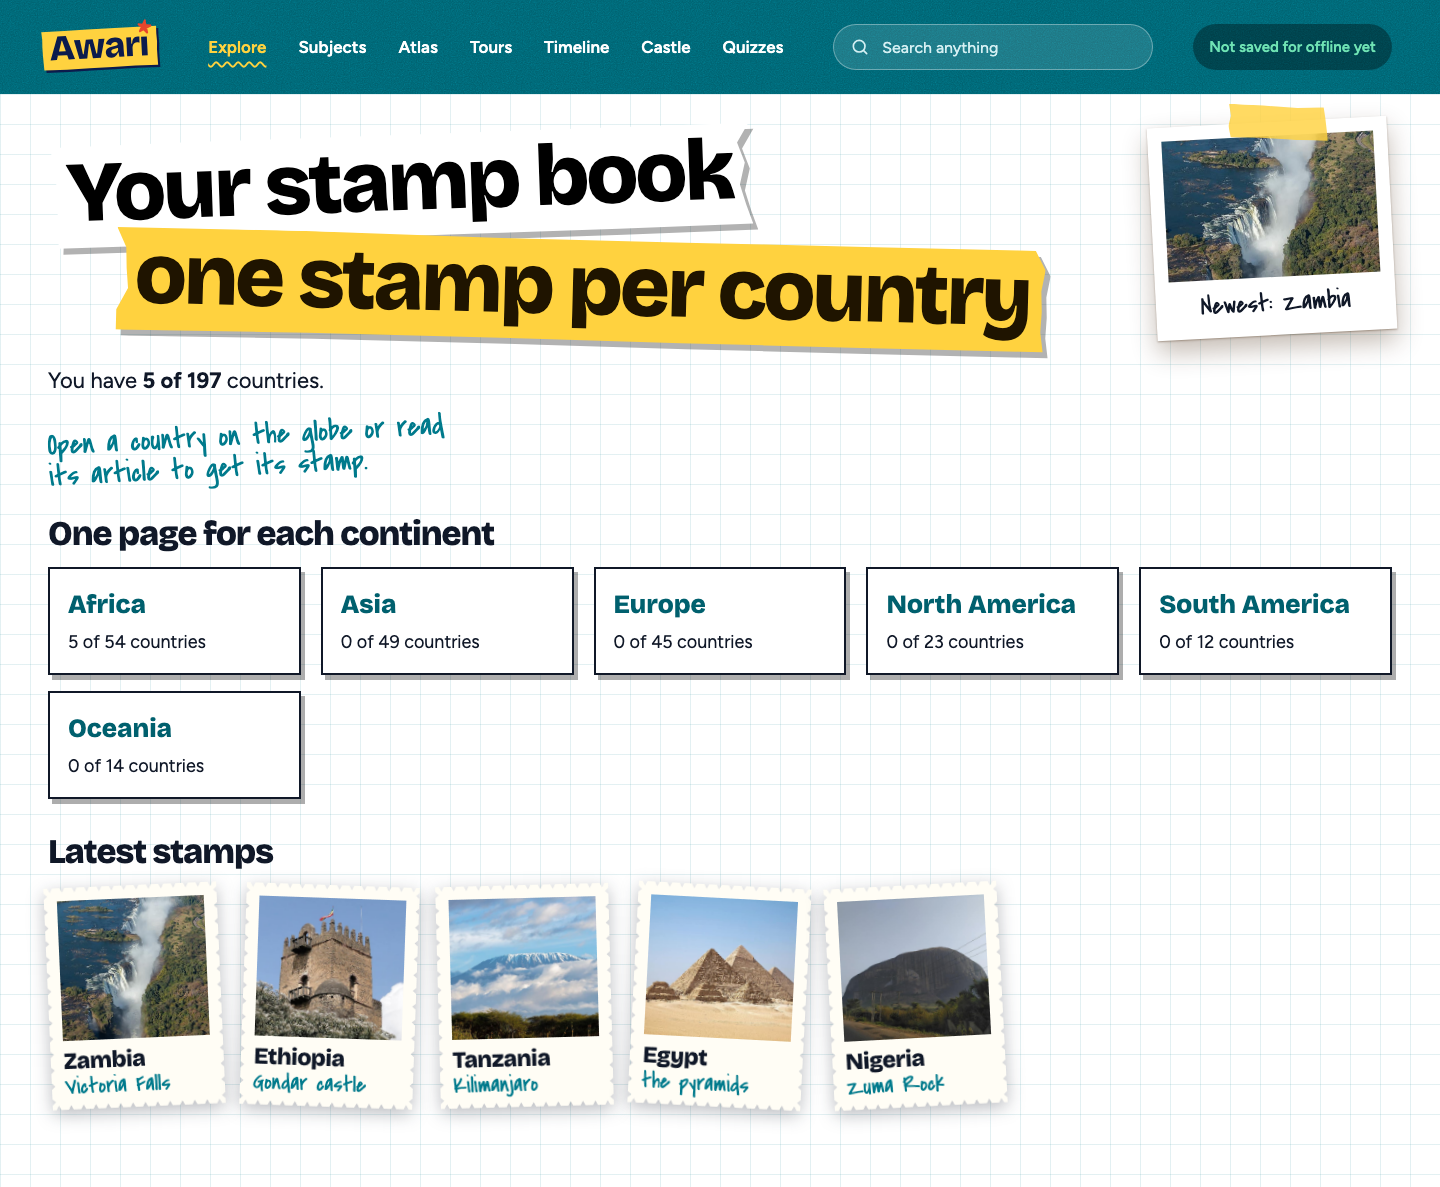
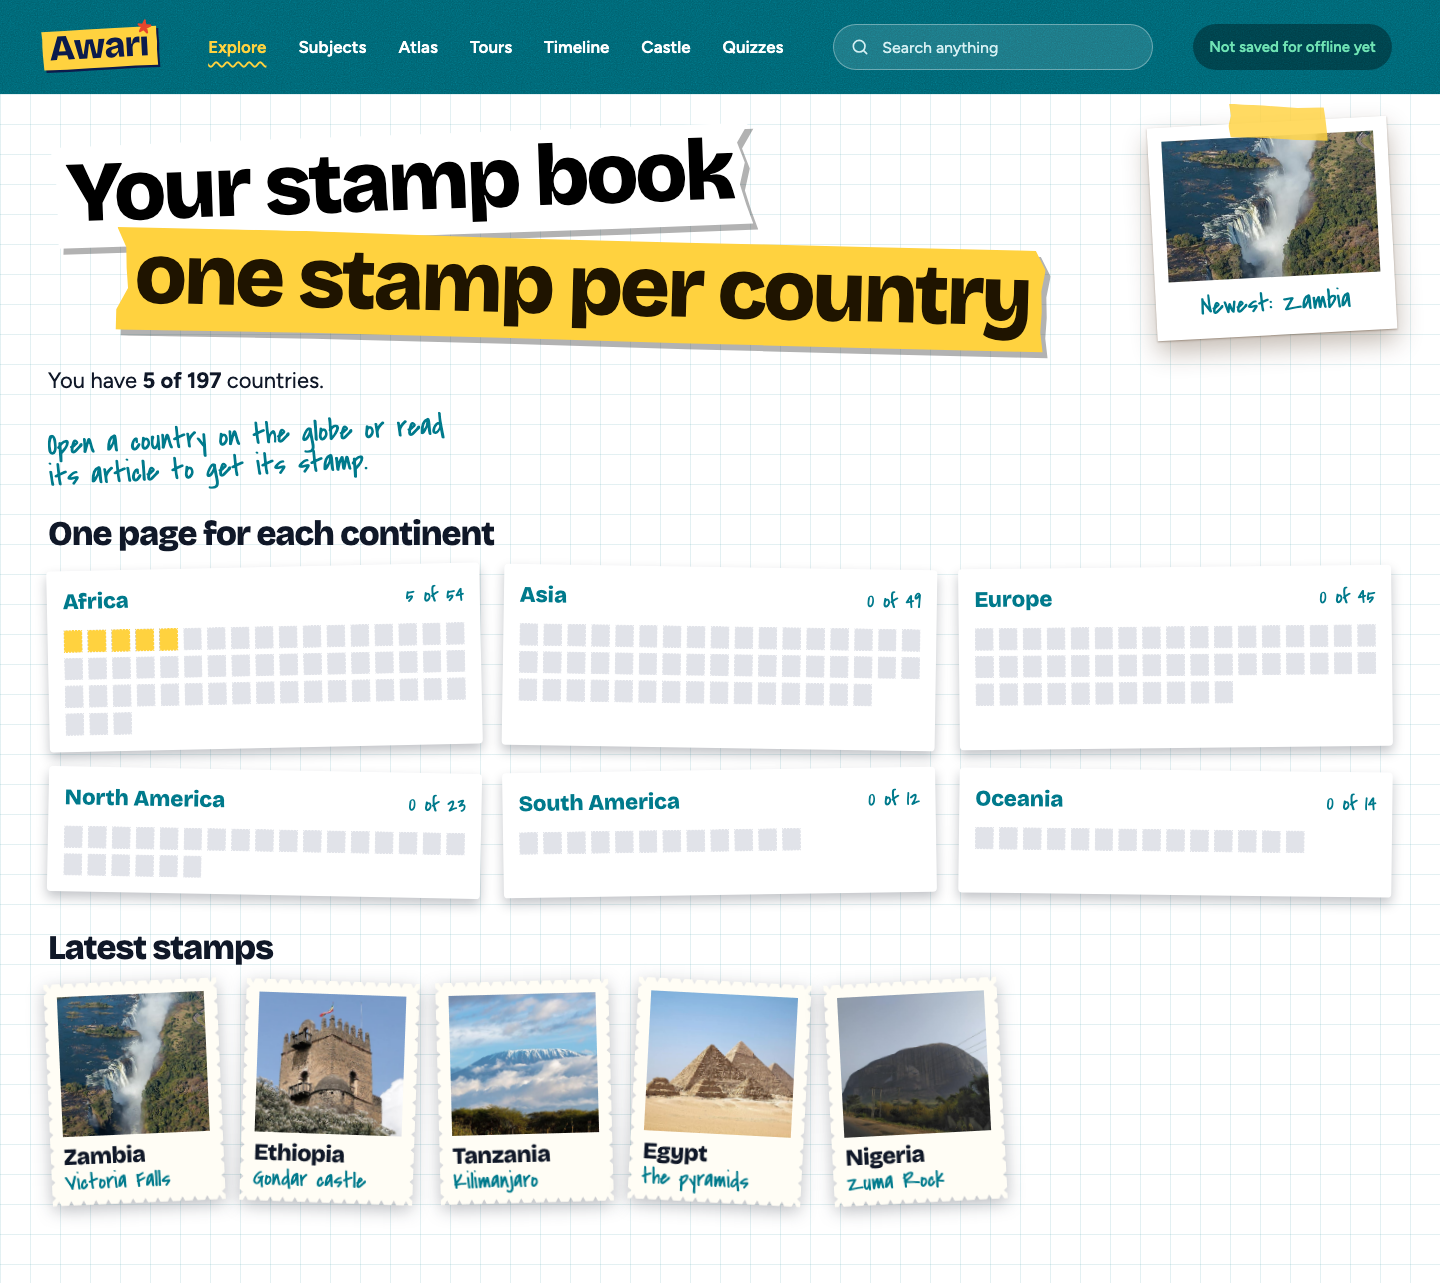
22-review-3 4: shared stamp sheets component in a 3x2 grid

Changed region(s): [[0.0, 0.0, 1.0, 0.9663], [0.3125, 0.7481, 0.6875, 0.9663]]

diff --git a/src/features/stamps/stamps.test.tsx b/src/features/stamps/stamps.test.tsx
@@ -17,14 +17,14 @@ describe('World stamp book screens (16-world-stamp-book 3)', () => {
     expect(await screen.findByText(/Your book is empty so far/)).toBeInTheDocument();
     expect(screen.getByRole('link', { name: 'Spin the globe' })).toHaveAttribute('href', '/atlas');
     expect(screen.getByRole('status')).toHaveTextContent('0 of 197 countries');
-    const cards = screen.getAllByRole('link', { name: /countries$/ });
+    const cards = screen.getAllByRole('link', { name: /Open this page$/ });
     expect(cards.map((c) => c.textContent)).toEqual([
-      'Africa0 of 54 countries',
-      'Asia0 of 49 countries',
-      'Europe0 of 45 countries',
-      'North America0 of 23 countries',
-      'South America0 of 12 countries',
-      'Oceania0 of 14 countries',
+      'Africa0 of 54',
+      'Asia0 of 49',
+      'Europe0 of 45',
+      'North America0 of 23',
+      'South America0 of 12',
+      'Oceania0 of 14',
     ]);
     expect(cards[3]).toHaveAttribute('href', '/stamps/north-america');
   });
@@ -33,9 +33,9 @@ describe('World stamp book screens (16-world-stamp-book 3)', () => {
     await update((p) => ['nigeria', 'ghana', 'france', 'japan', 'brazil', 'fiji'].reduce(withDiscovered, p));
     render(<StampsScreen />);
     expect(await screen.findByText(/6 of 197/)).toBeInTheDocument();
-    expect(screen.getByRole('link', { name: /^Africa2 of 54/ })).toBeInTheDocument();
-    expect(screen.getByRole('link', { name: /^Oceania1 of 14/ })).toBeInTheDocument();
-    expect(screen.getByRole('link', { name: /^South America1 of 12/ })).toBeInTheDocument();
+    expect(screen.getByRole('link', { name: /^Africa: 2 of 54 countries/ })).toBeInTheDocument();
+    expect(screen.getByRole('link', { name: /^Oceania: 1 of 14 countries/ })).toBeInTheDocument();
+    expect(screen.getByRole('link', { name: /^South America: 1 of 12 countries/ })).toBeInTheDocument();
   });
 
   it('shows a continent page with a slot per country, found ones linked, the rest in words. _Req 3_', async () => {
@@ -57,5 +57,16 @@ describe('World stamp book screens (16-world-stamp-book 3)', () => {
     expect(screen.getByRole('alert')).toHaveTextContent('There is no stamp page for that place');
     const world = within(document.body).getByRole('link', { name: 'Oceania' });
     expect(world).toHaveAttribute('href', '/stamps/oceania');
+  });
+});
+
+describe('stamp sheets are one component (22-review-3 Req 5, 6)', () => {
+  it('draws six sheets in the stamp book, each with one blank slot per country', async () => {
+    const { container } = render(<StampsScreen />);
+    await screen.findByText(/Your book is empty so far/);
+    const sheets = container.querySelectorAll('.stamp-sheet');
+    expect(sheets).toHaveLength(6);
+    const slots = [...sheets].reduce((n, s) => n + s.querySelectorAll('.stamp-sheet__stamps span').length, 0);
+    expect(slots).toBe(197);
   });
 });

diff --git a/src/features/atlas/AtlasScreen.tsx b/src/features/atlas/AtlasScreen.tsx
@@ -7,12 +7,12 @@ import { useEffect, useMemo, useState } from 'react';
 import { Link } from '../../app/navigation.tsx';
 import { useTitle } from '../../app/useTitle.ts';
 import { Button, MarginNote, StripHeading } from '../../design/paper.tsx';
-import { perforation } from '../../design/wobble.ts';
 import { usePack } from '../../lib/packs/load.ts';
 import type { FactsPack, PackIndex } from '../../lib/packs/types.ts';
 import { update, withDiscovered } from '../../lib/store/progress.ts';
 import { useProgress } from '../../lib/store/useProgress.ts';
 import { factRows } from '../article/credit.ts';
+import { StampSheets } from '../stamps/StampSheets.tsx';
 import { worldBook, type WorldBook } from '../stamps/stamps.ts';
 import { Globe, centreOf, type Shapes } from './Globe.tsx';
 import { centreOn, type Rotation } from './globeMath.ts';
@@ -22,12 +22,8 @@ interface QuizIndex {
   quizzes: Array<{ pack: string; id: string }>;
 }
 
-const STAMP = perforation(6, 6);
-
 /**
- * The world stamp count as a stamp sheet: one perforated sheet per
- * continent with its own count, a stamp for every country, filled in as
- * the student finds them (21-review-2 Req 15).
+ * The world stamp count as the shared stamp sheets (22-review-3 Req 6).
  */
 function WorldStamps({ book }: { book: WorldBook }) {
   return (
@@ -35,23 +31,7 @@ function WorldStamps({ book }: { book: WorldBook }) {
       <p className="atlas-stamps__count">
         <strong>{book.count}</strong> of {book.total || 197} countries discovered
       </p>
-      <ul className="atlas-sheets">
-        {book.perContinent.map((c, i) => (
-          <li key={c.continent} className="atlas-sheet" style={{ rotate: `${[-1.2, 0.9, -0.6, 1.1, -0.9, 0.7][i % 6]}deg` }}>
-            <p className="atlas-sheet__head">
-              <span className="atlas-sheet__name">{c.continent}</span>
-              <span className="atlas-sheet__count">
-                {c.count} of {c.total}
-              </span>
-            </p>
-            <div className="atlas-sheet__stamps" aria-hidden="true">
-              {Array.from({ length: c.total }, (_, k) => (
-                <span key={k} className={k < c.count ? 'is-found' : ''} style={{ clipPath: STAMP }} />
-              ))}
-            </div>
-          </li>
-        ))}
-      </ul>
+      <StampSheets book={book} />
     </div>
   );
 }

diff --git a/src/features/stamps/StampSheets.tsx b/src/features/stamps/StampSheets.tsx
@@ -1,0 +1,38 @@
+/**
+ * One perforated stamp sheet per continent, found stamps filled and the rest
+ * blank (22-review-3 Req 5, 6). The stamp book and the Atlas both draw it,
+ * so the two screens always agree. Six continents sit in a 3 x 2 grid (2 x 3
+ * on a phone), so no continent is ever alone on a row.
+ */
+import { Link } from '../../app/navigation.tsx';
+import { perforation } from '../../design/wobble.ts';
+import { continentSlug } from '../../lib/packs/subjects.ts';
+import type { WorldBook } from './stamps.ts';
+import './stamps.css';
+
+const STAMP = perforation(6, 6);
+const TILTS = [-1.2, 0.9, -0.6, 1.1, -0.9, 0.7] as const;
+
+export function StampSheets({ book }: { book: WorldBook }) {
+  return (
+    <ul className="stamp-sheets">
+      {book.perContinent.map((c, i) => (
+        <li key={c.continent} className="stamp-sheet" style={{ rotate: `${TILTS[i % TILTS.length]}deg` }}>
+          <Link to={`/stamps/${continentSlug(c.continent)}`} className="stamp-sheet__link" aria-label={`${c.continent}: ${c.count} of ${c.total} countries. Open this page`}>
+            <span className="stamp-sheet__head">
+              <span className="stamp-sheet__name">{c.continent}</span>
+              <span className="stamp-sheet__count">
+                {c.count} of {c.total}
+              </span>
+            </span>
+            <span className="stamp-sheet__stamps" aria-hidden="true">
+              {Array.from({ length: c.total }, (_, k) => (
+                <span key={k} className={k < c.count ? 'is-found' : ''} style={{ clipPath: STAMP }} />
+              ))}
+            </span>
+          </Link>
+        </li>
+      ))}
+    </ul>
+  );
+}

diff --git a/src/features/stamps/stamps.css b/src/features/stamps/stamps.css
@@ -101,3 +101,74 @@
 .stamp-book a:not(.stamp):not(.stamp-book__continent) {
   color: var(--teal-ink);
 }
+
+/* Stamp sheets, shared by the stamp book and the Atlas (22-review-3 Req 5, 6). */
+.stamp-sheets {
+  display: grid;
+  grid-template-columns: repeat(3, minmax(0, 1fr));
+  gap: 22px;
+  margin: 14px 0 0;
+  padding: 0;
+  list-style: none;
+}
+
+.stamp-sheet {
+  background: var(--paper);
+  color: var(--ink);
+  border-radius: 4px;
+  box-shadow: 0 6px 12px rgb(16 24 40 / 0.25);
+}
+
+.stamp-sheet__link {
+  display: block;
+  padding: 14px 16px 16px;
+  color: inherit;
+  text-decoration: none;
+}
+
+.stamp-sheet__link:focus-visible {
+  outline: 3px solid var(--focus);
+  outline-offset: 3px;
+}
+
+.stamp-sheet__head {
+  display: flex;
+  align-items: baseline;
+  justify-content: space-between;
+  gap: 8px;
+  margin: 0 0 10px;
+}
+
+.stamp-sheet__name {
+  font-family: var(--font-head);
+  font-size: 22px;
+}
+
+.stamp-sheet__count {
+  font-family: var(--font-hand);
+  font-size: 22px;
+  color: var(--teal-ink);
+}
+
+.stamp-sheet__stamps {
+  display: grid;
+  grid-template-columns: repeat(auto-fill, minmax(18px, 1fr));
+  gap: 5px;
+}
+
+.stamp-sheet__stamps span {
+  aspect-ratio: 5 / 6;
+  background: rgb(11 27 77 / 0.12);
+}
+
+.stamp-sheet__stamps span.is-found {
+  background: var(--yellow);
+  outline: 1px solid rgb(11 27 77 / 0.35);
+}
+
+@media (max-width: 899px) {
+  .stamp-sheets {
+    grid-template-columns: repeat(2, minmax(0, 1fr));
+    gap: 16px;
+  }
+}

diff --git a/src/features/atlas/atlas.css b/src/features/atlas/atlas.css
@@ -68,58 +68,6 @@
   color: var(--yellow);
 }
 
-.atlas-sheets {
-  display: grid;
-  grid-template-columns: repeat(3, minmax(0, 1fr));
-  gap: 22px;
-  margin: 14px 0 0;
-  padding: 0;
-  list-style: none;
-}
-
-.atlas-sheet {
-  padding: 14px 16px 16px;
-  background: var(--paper);
-  color: var(--ink);
-  border-radius: 4px;
-  box-shadow: 0 6px 12px rgb(16 24 40 / 0.25);
-}
-
-.atlas-sheet__head {
-  display: flex;
-  align-items: baseline;
-  justify-content: space-between;
-  gap: 8px;
-  margin: 0 0 10px;
-}
-
-.atlas-sheet__name {
-  font-family: var(--font-head);
-  font-size: 22px;
-}
-
-.atlas-sheet__count {
-  font-family: var(--font-hand);
-  font-size: 22px;
-  color: var(--teal-ink);
-}
-
-.atlas-sheet__stamps {
-  display: grid;
-  grid-template-columns: repeat(auto-fill, minmax(18px, 1fr));
-  gap: 5px;
-}
-
-.atlas-sheet__stamps span {
-  aspect-ratio: 5 / 6;
-  background: rgb(11 27 77 / 0.12);
-}
-
-.atlas-sheet__stamps span.is-found {
-  background: var(--yellow);
-  outline: 1px solid rgb(11 27 77 / 0.35);
-}
-
 .atlas__globe {
   grid-area: globe;
   position: relative;
@@ -282,20 +230,10 @@
   color: var(--paper);
 }
 
-@media (max-width: 1100px) {
-  .atlas-sheets {
-    grid-template-columns: repeat(2, minmax(0, 1fr));
-  }
-}
-
 @media (max-width: 899px) {
   .atlas {
     grid-template-columns: minmax(0, 1fr);
     grid-template-areas: 'side' 'globe' 'card' 'sheets' 'credit';
-  }
-
-  .atlas-sheets {
-    grid-template-columns: 1fr;
   }
 }
 

diff --git a/src/features/stamps/StampsScreen.tsx b/src/features/stamps/StampsScreen.tsx
@@ -7,9 +7,9 @@ import { Link } from '../../app/navigation.tsx';
 import { useTitle } from '../../app/useTitle.ts';
 import { MarginNote, Print, Stamp, StripHeading } from '../../design/paper.tsx';
 import { usePack } from '../../lib/packs/load.ts';
-import { continentSlug } from '../../lib/packs/subjects.ts';
 import type { PackIndex } from '../../lib/packs/types.ts';
 import { useProgress } from '../../lib/store/useProgress.ts';
+import { StampSheets } from './StampSheets.tsx';
 import { worldBook } from './stamps.ts';
 import './stamps.css';
 
@@ -61,18 +61,7 @@ export default function StampsScreen() {
       ) : null}
 
       <h2>One page for each continent</h2>
-      <ul className="stamp-book__continents">
-        {book.perContinent.map((c) => (
-          <li key={c.continent}>
-            <Link to={`/stamps/${continentSlug(c.continent)}`} className="stamp-book__continent lift">
-              <span className="stamp-book__continent-name">{c.continent}</span>
-              <span>
-                {c.count} of {c.total} countries
-              </span>
-            </Link>
-          </li>
-        ))}
-      </ul>
+      <StampSheets book={book} />
 
       {latest.length > 0 ? (
         <>

diff --git a/src/features/atlas/atlas.test.tsx b/src/features/atlas/atlas.test.tsx
@@ -43,13 +43,13 @@ describe('Atlas (04-atlas)', () => {
   it('draws progress as one stamp sheet per continent with its own count (21-review-2 Req 15)', async () => {
     render(<AtlasScreen />);
     await screen.findByRole('application', { name: /Globe/ });
-    const sheets = document.querySelectorAll('.atlas-sheet');
+    const sheets = document.querySelectorAll('.stamp-sheet');
     expect(sheets).toHaveLength(6);
     let stamps = 0;
     for (const sheet of sheets) {
-      expect(sheet.querySelector('.atlas-sheet__name')?.textContent).toBeTruthy();
-      expect(sheet.querySelector('.atlas-sheet__count')?.textContent).toMatch(/^\d+ of \d+$/);
-      stamps += sheet.querySelectorAll('.atlas-sheet__stamps span').length;
+      expect(sheet.querySelector('.stamp-sheet__name')?.textContent).toBeTruthy();
+      expect(sheet.querySelector('.stamp-sheet__count')?.textContent).toMatch(/^\d+ of \d+$/);
+      stamps += sheet.querySelectorAll('.stamp-sheet__stamps span').length;
     }
     expect(stamps).toBe(197);
   });

diff --git a/src/features/timeline/timeline.test.tsx b/src/features/timeline/timeline.test.tsx
@@ -75,7 +75,7 @@ describe('Timeline screen from the committed pack (07-timeline 3.2, 18-world-tim
     // The previous and next controls walk to the neighbouring centuries.
     await user.click(screen.getByRole('button', { name: '1900s →' }));
     expect(screen.getByRole('heading', { name: 'The 1900s' })).toBeInTheDocument();
-  });
+  }, 20_000);
 
   it('shows fewer births than other events by default (21-review-2 Req 18)', async () => {
     const { container } = render(<TimelineScreen />);

diff --git a/docs/kiro-log.md b/docs/kiro-log.md
@@ -144,3 +144,4 @@ running the command itself.
 | 2026-11-13 09:50 | spec | 23-media-library 1 | Wrote requirements (24), design with seven properties and tasks for docs/media-brief.md; it starts when review 3 is committed |
 | 2026-11-13 12:50 | builder run 34363b32 died on a backend 5xx after the Wikidata fetch had finished (1,188 candidate rows in timeline-days-data.ts, nothing wired in). Took over in this session: scripts/packs/rebuild-timeline-days.ts merges the day rows into timeline.json with the Wikidata date cross-check; npx vitest run (348 pass), tsc, eslint, credits | 22-review-3 2 | Every one of the 366 days now has at least 2 events (1,530 events). Found and fixed a real defect on the way: dayDate ignored the calendar model, so Julian-calendar days after 1582 showed as Gregorian (Tchaikovsky 25 April instead of 7 May); 8 such events dropped. Tests: on-this-day.property.test.ts (Properties 1, 2); timeline tests no longer rely on an empty 2 January |
 | 2026-11-13 13:05 | npx vitest run (all pass), tsc, eslint; scripts/check-timeline-layout.ts at 1440 and 390 (0 px overflow, 23 births of 59 cards, 1900s); screenshot of /timeline opened | 22-review-3 3 | Cards are coloured by kind (birthday, country, founded or opened, discovery or launch, first published) with a legend; the year sits above the title; the ruler picks its step so it shows about ten marks; births are held strictly under 40% (kinds.property.test.ts, Property 5). Done in this session after the crew builder died |
+| 2026-11-13 13:25 | vitest src/features (all pass), tsc, eslint; screenshots of /stamps and /atlas at 1440 and 390 (0 px overflow), stamps and atlas at 1440 opened | 22-review-3 4 | New StampSheets component (src/features/stamps/StampSheets.tsx): six perforated sheets, 3 x 2 on a laptop and 2 x 3 on a phone, each a link to its continent page. The stamp book and the Atlas both use it; the old continent cards and the Atlas-only sheet CSS are gone (Req 5, 6) |

diff --git a/.kiro/specs/22-review-3/tasks.md b/.kiro/specs/22-review-3/tasks.md
@@ -9,7 +9,7 @@ One task per item. Each is built by `awari-builder`, checked by `awari-design-re
       "Coming up" only in the third slot (Property 2). _Req 1-3_
 - [x] 3. Timeline cards: colour by kind with a legend, year above the title, ruler spacing, births
       under 40% (Property 5). _Req 14-16_
-- [ ] 4. Stamp sheets component; stamp book continents as sheets in a 3x2 grid. _Req 5_
+- [x] 4. Stamp sheets component; stamp book continents as sheets in a 3x2 grid. _Req 5_
 - [ ] 5. Atlas uses the stamp sheets; closes the gap under the picker. _Req 6, 7_
 - [ ] 6. Subjects page as cover prints with hand labels; count from data. _Req 4_
 - [ ] 7. Home castle panel: a castle or a door; no duplicate photographs on Home (Property 3);
